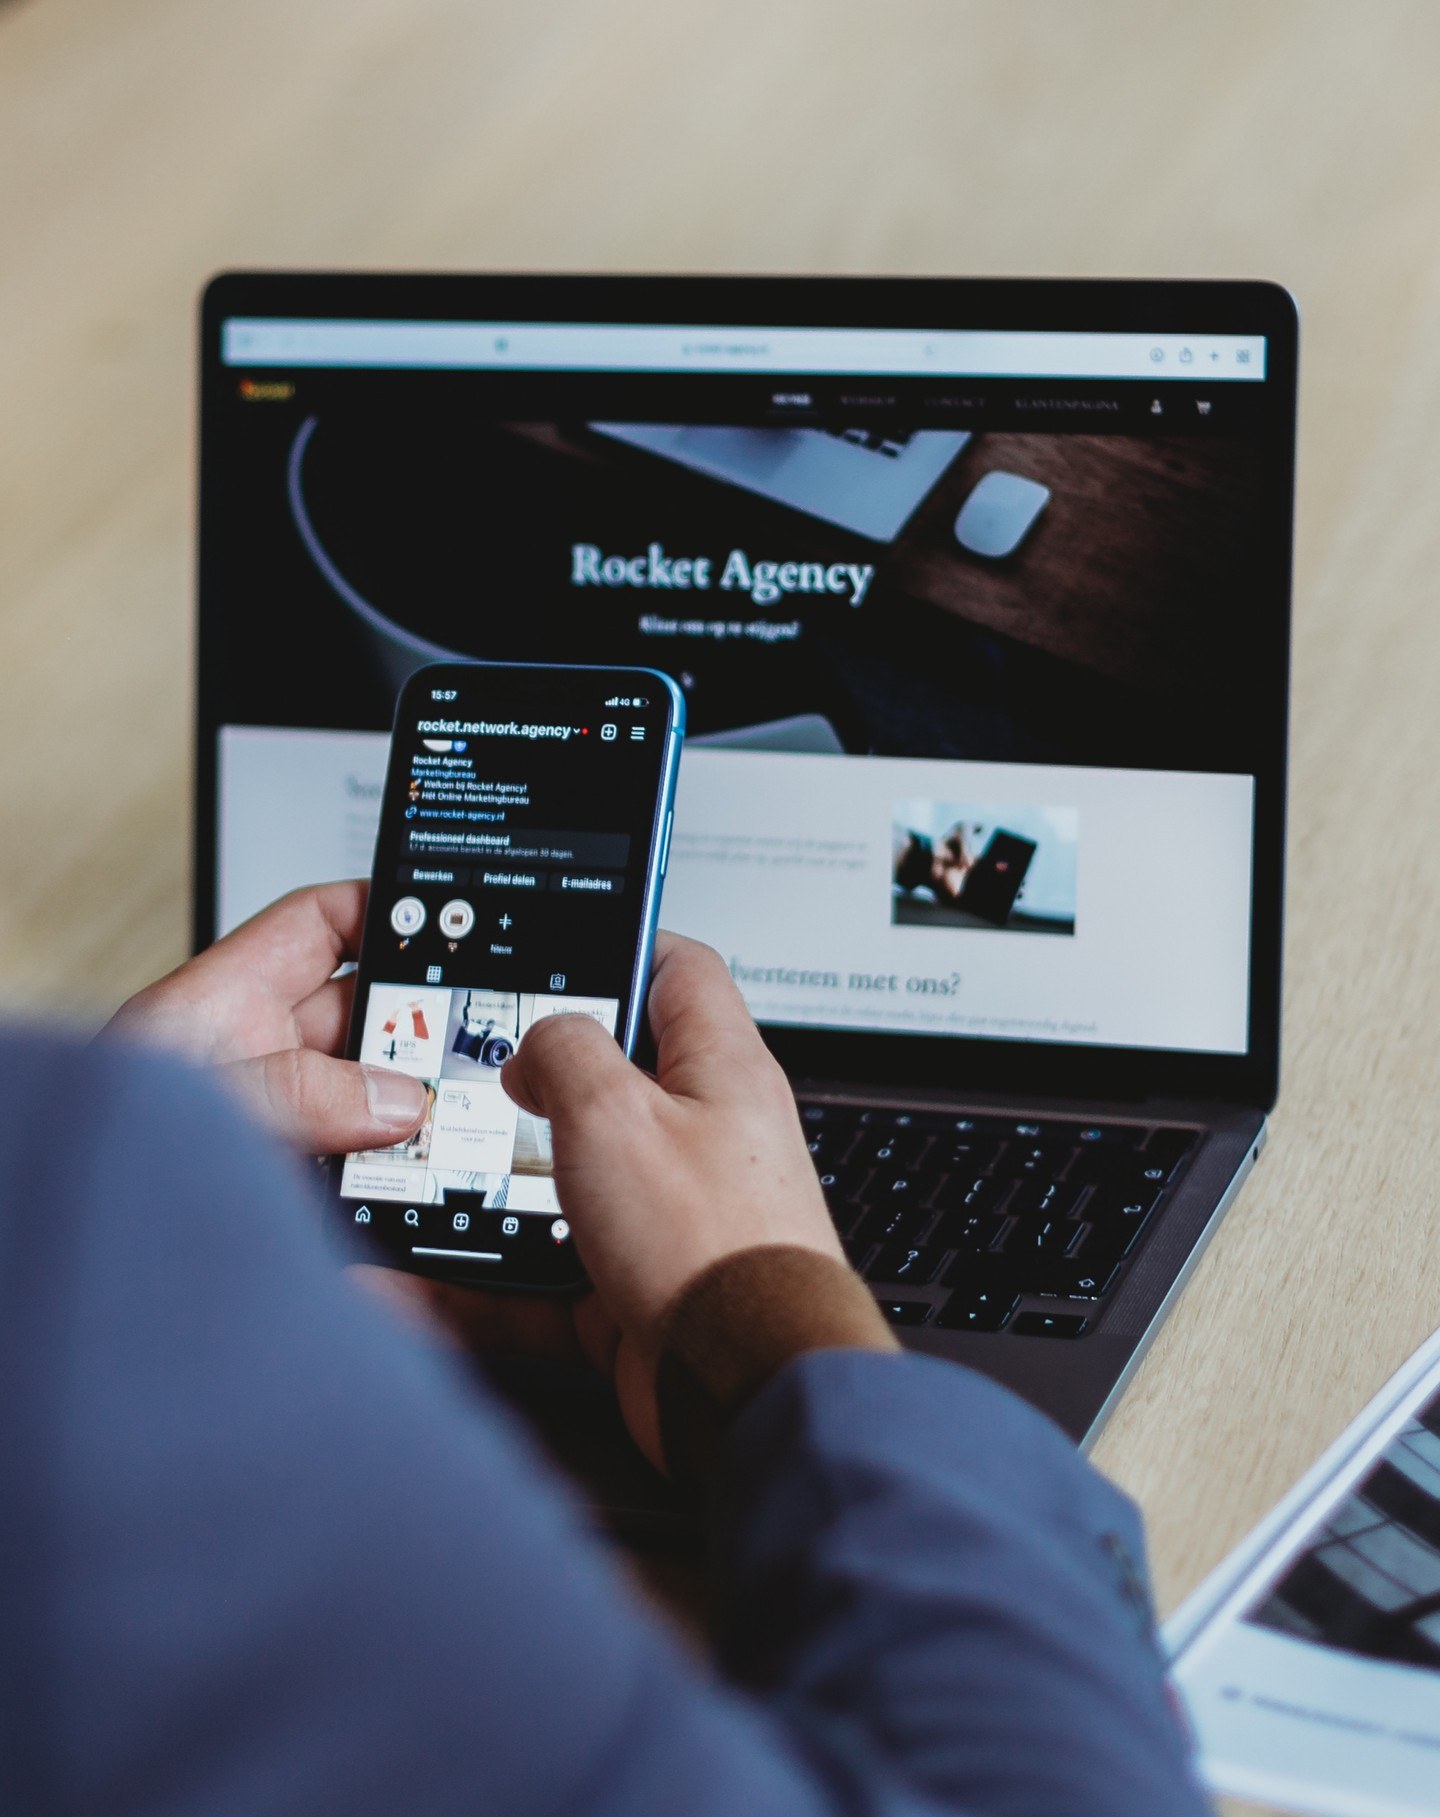
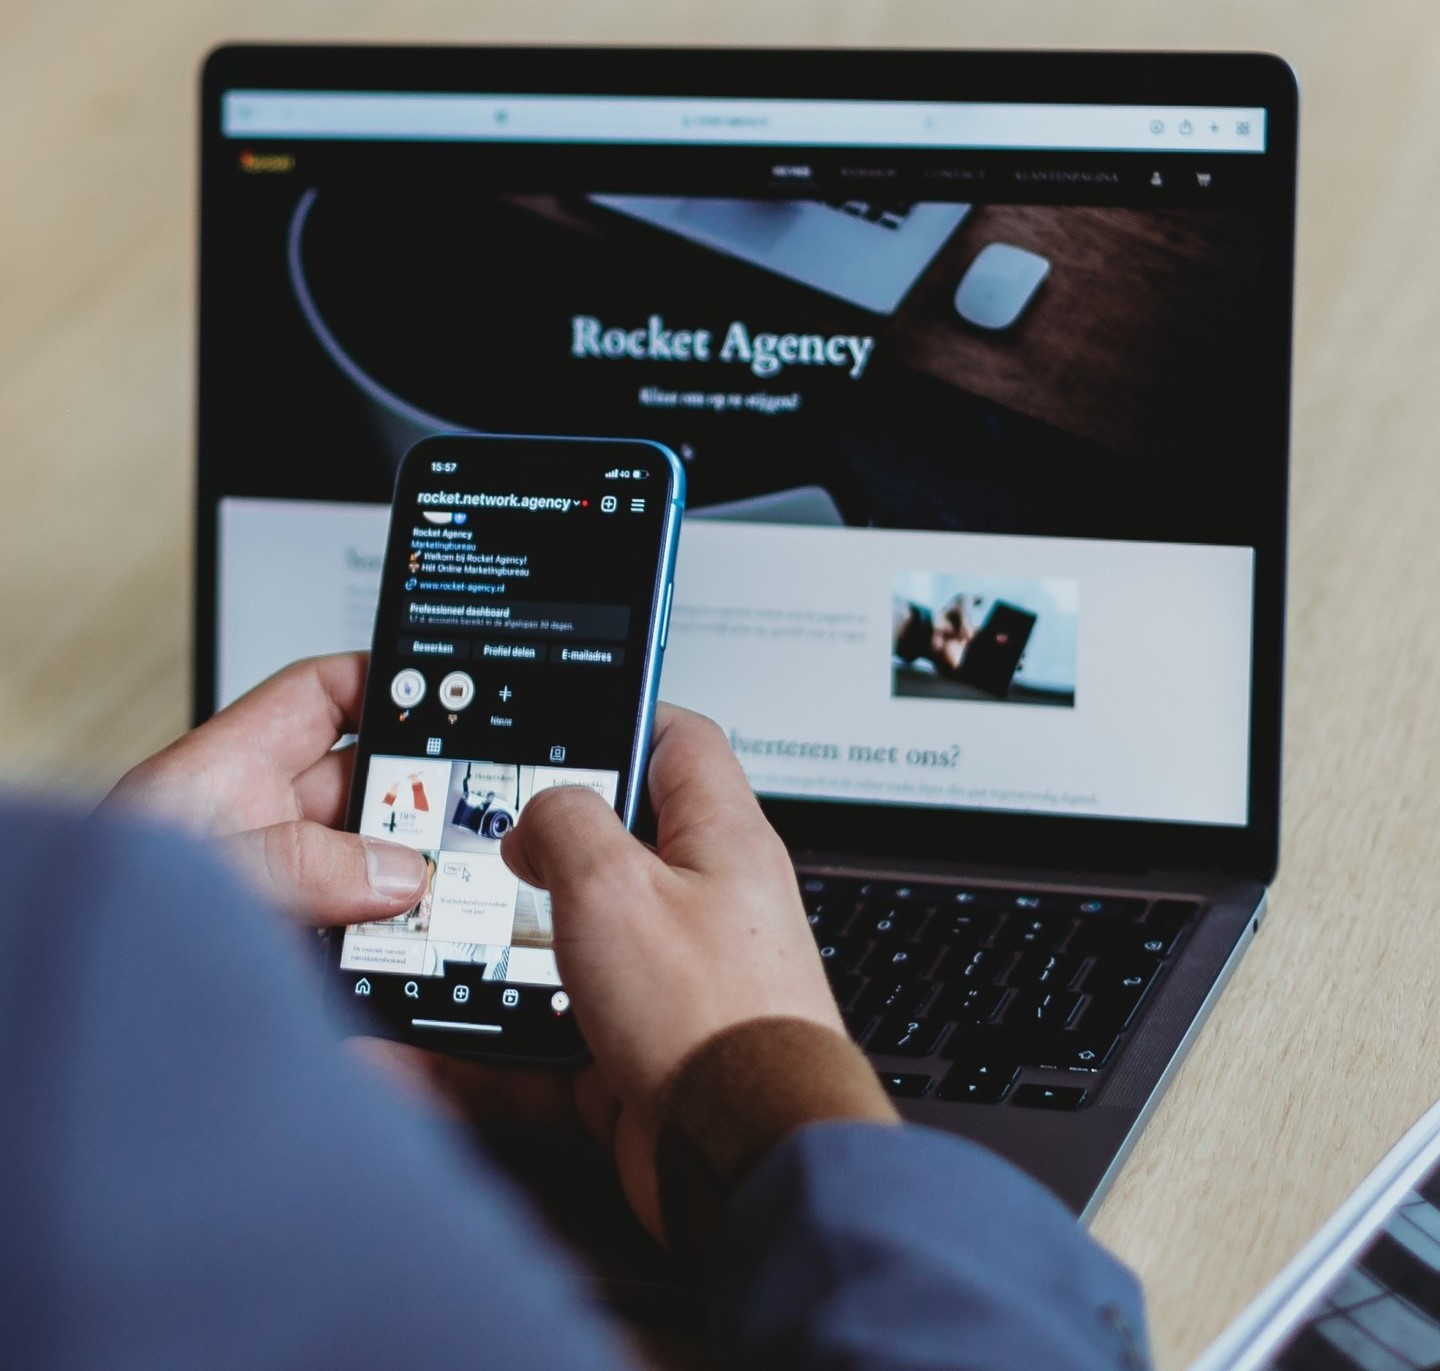
Diensten hero img

diff --git a/Diensten.html b/Diensten.html
@@ -74,12 +74,12 @@
           <img src="Images/Logo_volledig_transparant.png" alt="Social Media Manager logo" class="logo-page" />
         </div>
         <div class="about-text">
-          <h2><span>Social media is onze passie.</span></h2>
-          <p class="subtitle">Wij helpen bedrijven groeien door strategische zichtbaarheid.</p>
+          <h2><span>Strategisch, stijlvol en resultaatgericht.</span></h2>
+          <p class="subtitle">Zo brengen wij jouw merk naar het volgende niveau.</p>
         </div>
       </div>
       <div class="about-right">
-        <img src="Images/Overons.jpg" alt="Ons team in gesprek" class="w-full h-auto border-0 outline-none shadow-none" />
+        <img src="Images/Diensten.jpg" alt="Ons team in gesprek" class="w-full h-auto border-0 outline-none shadow-none" />
       </div>
     </section>
 
